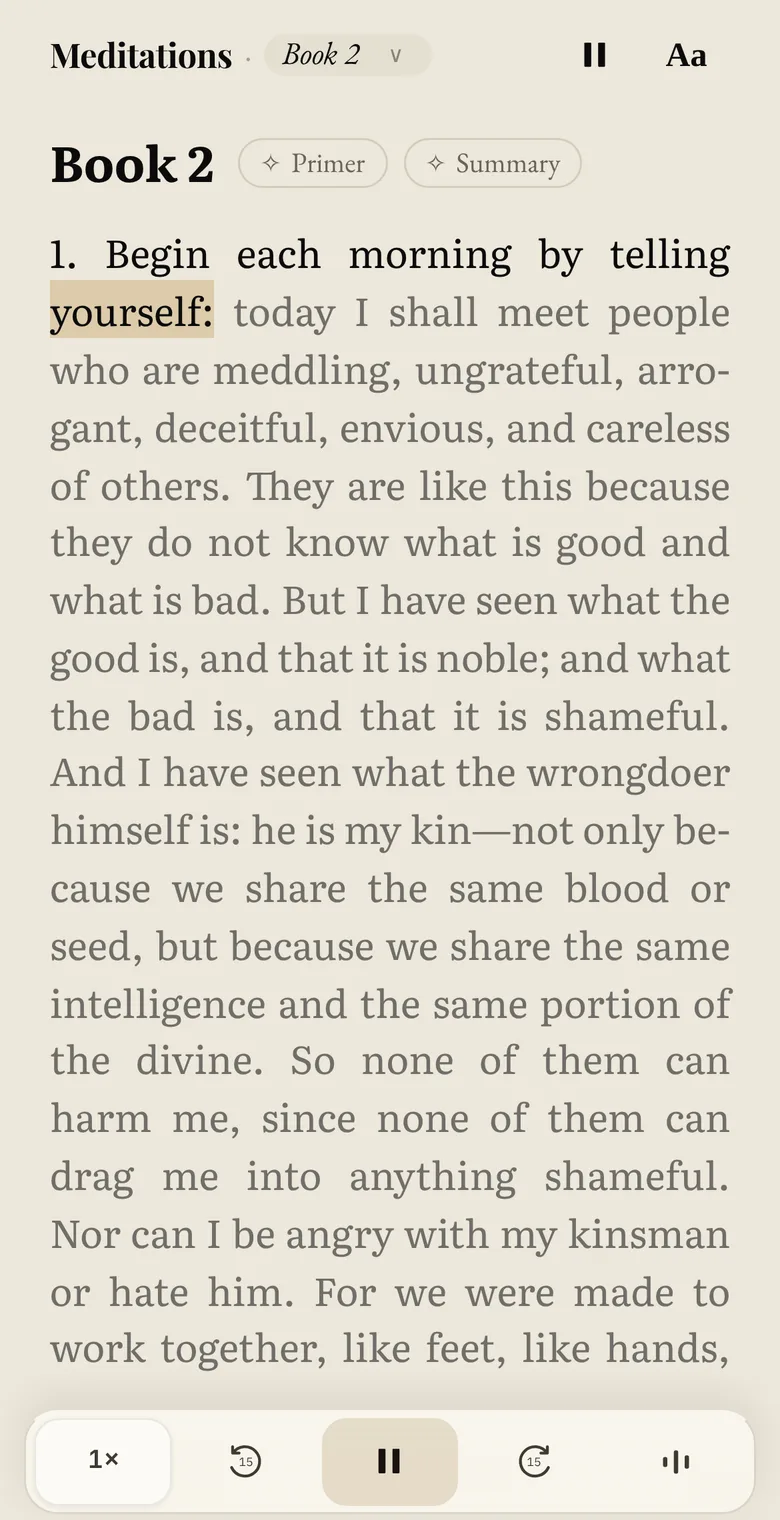
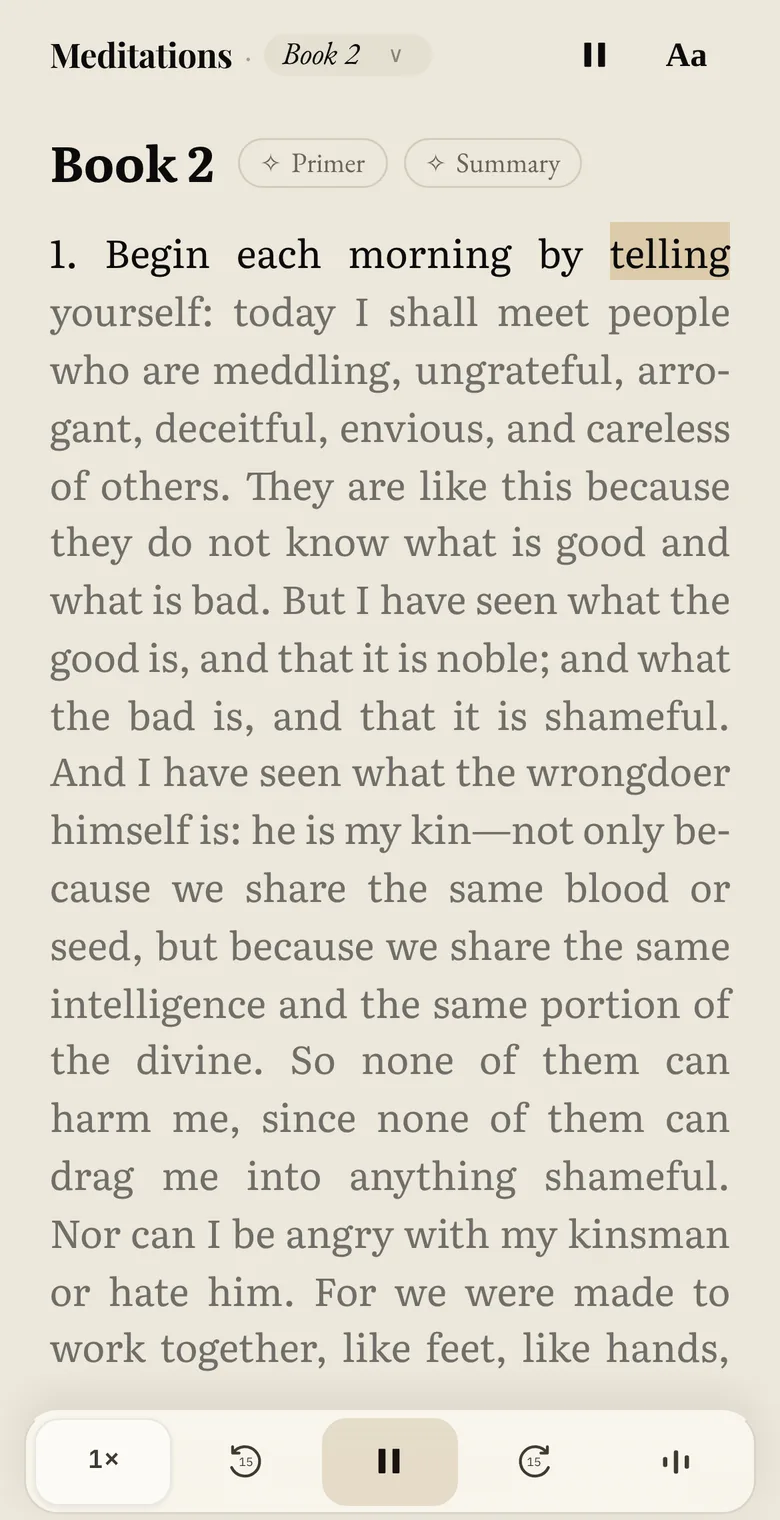
About page: the selection grows under the finger in Explain
Four frames captured mid-drag (25-28, phone and desktop) show the highlight spreading word by word as the
finger moves from "Begin" to "unsocial.", instead of the finger pointing and the highlight appearing at the
end (Anders, 19 Nov). The finger stays down across those frames, which cut rather than fade, then lifts and
taps Explain.

Claude-Session: https://claude.ai/code/session_01MT1m8mq3NtYNBEbe7tz8nU

Changed region(s): [[0.0615, 0.1855, 0.2769, 0.2474], [0.7692, 0.1237, 0.9538, 0.1855]]

diff --git a/app/public/lab/try/try.js b/app/public/lab/try/try.js
@@ -19,14 +19,15 @@
   // [file, step, milliseconds on screen]. Listen is fourteen frames 280 ms apart, as captured, so the marked word moves
   // word by word (Anders, 19 Nov: it lagged); they cut, not fade, into each other.
   var FRAMES = [
-    ['01', 0, 1300], ['02', 0, 1500], ['04', 0, 3600],
+    // 25-28: the selection growing under the finger, mid-drag (Anders, 19 Nov: highlight it, don't just point).
+    ['01', 0, 1300], ['25', 0, 380], ['26', 0, 380], ['27', 0, 380], ['28', 0, 380], ['02', 0, 1500], ['04', 0, 3600],
     ['08', 1, 3200],
     ['11', 2, 280], ['12', 2, 280], ['13', 2, 280], ['14', 2, 280], ['15', 2, 280], ['16', 2, 280], ['17', 2, 280],
     ['18', 2, 280], ['19', 2, 280], ['20', 2, 280], ['21', 2, 280], ['22', 2, 280], ['23', 2, 280], ['24', 2, 900],
     ['10', 3, 4200],
   ]
   // Bump when the frames are re-captured, so browsers fetch the new ones.
-  var FRAMES_V = '20261119g'
+  var FRAMES_V = '20261119h'
   var reduce = window.matchMedia('(prefers-reduced-motion: reduce)').matches
 
   var $ = function (selector, root) { return (root || document).querySelector(selector) }
@@ -50,9 +51,11 @@
 
   // ---- The visitor's pointer (Anders, 19 Nov: show the click before each change). Where it goes was recorded when the
   // frames were captured (scripts/capture-try-frames.cjs writes frames/*-pointer.json), as fractions of the frame. ----
-  var POINTER = {"desktop": {"selectFrom": [0.1141, 0.3289], "selectTo": [0.5293, 0.367], "explain": [0.5867, 0.4419], "modern": [0.644, 0.0458], "play": [0.91, 0.0458], "summary": [0.7713, 0.2875]}, "phone": {"selectFrom": [0.131, 0.1657], "selectTo": [0.6907, 0.2793], "explain": [0.3141, 0.3458], "modern": [0.88, 0.0361], "play": [0.7621, 0.0361], "summary": [0.6317, 0.1074]}}
+  var POINTER = {"desktop": {"selectFrom": [0.1141, 0.3289], "selectTo": [0.5293, 0.367], "drag25": [0.32, 0.3289], "drag26": [0.4481, 0.3289], "drag27": [0.5988, 0.3479], "drag28": [0.3204, 0.367], "explain": [0.5867, 0.4419], "modern": [0.644, 0.0458], "play": [0.91, 0.0458], "summary": [0.7713, 0.2875]}, "phone": {"selectFrom": [0.131, 0.1657], "selectTo": [0.6907, 0.2793], "drag25": [0.8571, 0.1657], "drag26": [0.4125, 0.2036], "drag27": [0.9314, 0.2225], "drag28": [0.8333, 0.2414], "explain": [0.3141, 0.3458], "modern": [0.88, 0.0361], "play": [0.7621, 0.0361], "summary": [0.6317, 0.1074]}}
   // What happens on a frame before the next one: a drag that selects, or a press on a button.
-  var ACTIONS = { '01': { drag: ['selectFrom', 'selectTo'] }, '02': { press: 'explain' }, '04': { press: 'modern' }, '08': { press: 'play' }, '24': { press: 'summary' } }
+  var ACTIONS = {
+    '01': { drag: ['selectFrom', 'drag25'] }, '25': { move: 'drag26' }, '26': { move: 'drag27' }, '27': { move: 'drag28' }, '28': { move: 'selectTo', lift: true },
+    '02': { press: 'explain' }, '04': { press: 'modern' }, '08': { press: 'play' }, '24': { press: 'summary' } }
   var phoneQuery = window.matchMedia('(max-width: 899px)')
   var layer = document.createElement('div')
   layer.className = 'try-pointer-layer'
@@ -85,7 +88,8 @@
   var scene = $('.try-scene', layer)
   var actionTimers = []
   function later(fn, ms) { actionTimers.push(setTimeout(fn, ms)) }
-  function clearActions() { actionTimers.forEach(clearTimeout); actionTimers = []; pointer.className = 'try-pointer' }
+  // keep: the next frame carries the same drag on, so the finger stays down where it is.
+  function clearActions(keep) { actionTimers.forEach(clearTimeout); actionTimers = []; if (!keep) pointer.className = 'try-pointer' }
   function place(at, glide) {
     pointer.style.transition = glide ? 'left ' + glide + 'ms cubic-bezier(.4, 0, .2, 1), top ' + glide + 'ms cubic-bezier(.4, 0, .2, 1), opacity .25s' : 'opacity .25s'
     pointer.style.left = (at[0] * 100) + '%'
@@ -97,14 +101,23 @@
     var marks = POINTER[phoneQuery.matches ? 'phone' : 'desktop']
     if (!action || reduce) return duration
     if (action.drag) {
+      // The finger lands on the first word, presses, and starts the drag; the frames after it carry it on.
       var from = marks[action.drag[0]], to = marks[action.drag[1]]
       if (!from || !to) return duration
-      var total = Math.max(duration, 2600)
-      later(function () { place(from, 0); pointer.className = 'try-pointer is-on' }, 500)
-      later(function () { pointer.className = 'try-pointer is-on is-down' }, 900)
-      later(function () { place(to, 1100) }, 1000)
-      later(function () { pointer.className = 'try-pointer is-on' }, total - 250)
+      var total = Math.max(duration, 1800)
+      later(function () { place(from, 0); pointer.className = 'try-pointer is-on' }, 400)
+      later(function () { pointer.className = 'try-pointer is-on is-down' }, 800)
+      later(function () { place(to, total - 900) }, 900)
       return total
+    }
+    if (action.move) {
+      // Mid-drag: glide on to the word this frame's selection reaches next, arriving as the next frame shows.
+      var target = marks[action.move]
+      if (!target) return duration
+      pointer.className = 'try-pointer is-on is-down'
+      place(target, duration)
+      if (action.lift) later(function () { pointer.className = 'try-pointer is-on' }, duration + 150)
+      return duration
     }
     var at = marks[action.press]
     if (!at) return duration
@@ -143,7 +156,9 @@
     var wave = !reduce && shown >= 0 && shown !== index && WAVE[index]
     var rise = !reduce && shown >= 0 && shown !== index && RISE[index]
     var under = shown >= 0 && shown !== index ? shown : -1
-    demo.classList.toggle('is-cut', shown >= 0 && FRAMES[shown][1] === 2 && FRAMES[index][1] === 2)
+    // Cut, not fade: word by word in Listen, and the selection growing under the finger.
+    var drag = function (i) { return /^2[5-8]$/.test(FRAMES[i][0]) }
+    demo.classList.toggle('is-cut', shown >= 0 && ((FRAMES[shown][1] === 2 && FRAMES[index][1] === 2) || drag(shown) || drag(index)))
     clearTimeout(underTimer)
     pictures.forEach(function (picture, i) {
       picture.classList.remove('is-wave', 'is-rise', 'is-under')
@@ -175,7 +190,8 @@
   function pace(ms) { return Math.round(ms * (phoneQuery.matches ? (ms > 400 ? 1.45 : 1.15) : (ms > 400 ? 1.3 : 1.1))) }
   function schedule(opened) {
     clearTimeout(timer)
-    clearActions()
+    var prevAction = ACTIONS[FRAMES[(index + FRAMES.length - 1) % FRAMES.length][0]]
+    clearActions(!!((ACTIONS[FRAMES[index][0]] || {}).move || (prevAction && prevAction.move)))
     if (reduce || held || !visible) return
     var frame = FRAMES[index]
     var duration = pace(frame[2]) + (opened ? (phoneQuery.matches ? 1100 : 600) : 0)

diff --git a/app/public/about.html b/app/public/about.html
@@ -22,9 +22,9 @@
 <link rel="icon" href="/favicon.ico">
 <link rel="stylesheet" href="/fonts/tinct-fonts.css">
 <link rel="stylesheet" href="/lab/tinct-ui.css?v=20261009rel10">
-<link rel="stylesheet" href="/lab/try/try.css?v=20261119gilm4">
+<link rel="stylesheet" href="/lab/try/try.css?v=20261119hilm4">
 <script type="module" src="/lab/internal-traffic.js"></script>
-<script src="/lab/try/try.js?v=20261119gilm4" defer></script>
+<script src="/lab/try/try.js?v=20261119hilm4" defer></script>
 </head>
 <body class="try">
 <div class="try-backdrop" aria-hidden="true"></div>
@@ -64,7 +64,7 @@
     <div class="try-show">
       <!-- Frames of the real reader (scripts/capture-try-frames.cjs), Meditations Book 2. The first is in the page; try.js adds the rest. -->
       <a class="try-demo" href="/reader?book=meditations&amp;chapter=2" data-try-demo aria-label="Meditations, Book 2: open it in the reader">
-        <picture class="is-on"><source media="(max-width: 899px)" srcset="/lab/try/frames/phone-01.webp?v=20261119g"><img src="/lab/try/frames/desktop-01.webp?v=20261119g" alt="" width="2112" height="1222" fetchpriority="high"></picture>
+        <picture class="is-on"><source media="(max-width: 899px)" srcset="/lab/try/frames/phone-01.webp?v=20261119h"><img src="/lab/try/frames/desktop-01.webp?v=20261119h" alt="" width="2112" height="1222" fetchpriority="high"></picture>
         <span class="try-demo-open" aria-hidden="true">Open it in the reader</span>
       </a>
       <a class="try-phone-more" href="#pricing">Pricing · Questions <span aria-hidden="true">↓</span></a>
